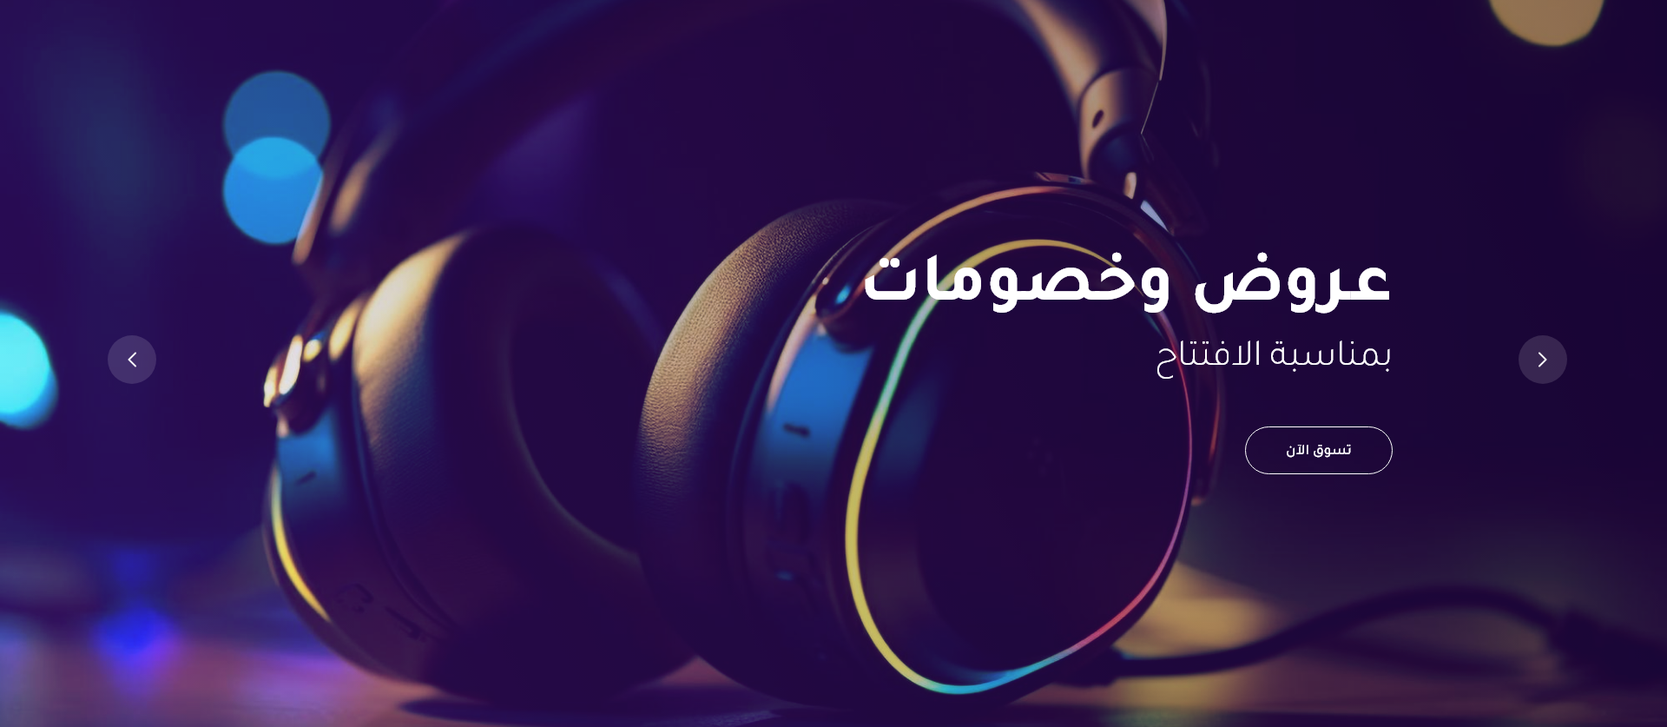
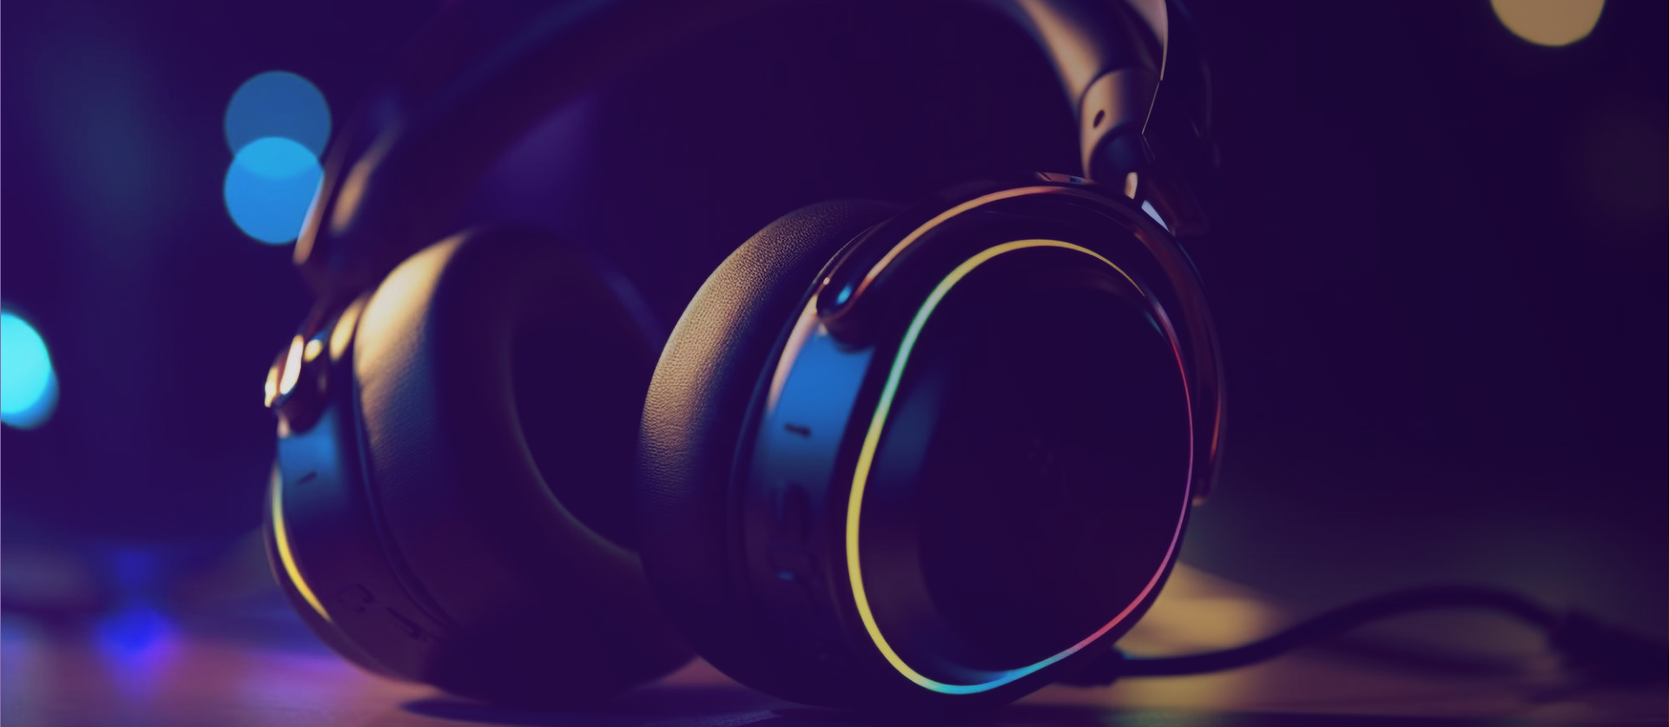
first commit

diff --git a/app/css/main.css b/app/css/main.css
@@ -1,1 +1,1 @@
-@import"https://fonts.googleapis.com/css2?family=Tajawal:wght@400;500;700&display=swap";.landing-swiper{width:100%;height:100%}.landing-swiper .swiper-slide img{width:100%;height:92%;object-fit:cover}.landing-swiper .swiper-pagination{bottom:4%}.landing-swiper .swiper-pagination .swiper-pagination-bullet{width:12px;height:12px;background-color:#44117c;opacity:.5}.landing-swiper .swiper-pagination-bullet-active{opacity:1 !important;background-color:#44117c}.fs-10px{font-size:10px}.fs-11px{font-size:11px}.fs-12{font-size:12px}.fs-13px{font-size:13px}.fs-14px{font-size:14px}.fs-15px{font-size:15px}.fs-16px{font-size:16px}.fs-26px{font-size:26px}.fw-600{font-weight:600 !important}.h-fit{height:fit-content}.w-fit{width:fit-content}.w-150px{width:150px}.main-color{color:#44117c}.gap-1px{gap:1px}.main-section{padding:35px 0}.main-btn{border-radius:50px;background:#44117c;display:flex;align-items:center;justify-content:center;gap:11px;padding:7px 33px;width:fit-content;cursor:pointer;color:#fff !important;font-size:18px;font-weight:600;outline:0;line-height:normal}.main-btn.xl{padding-left:93px;padding-right:93px}.main-title{font-size:35px;font-weight:700;line-height:42px;color:#44117c;margin-bottom:16px;text-align:center}.main-desc{font-size:17px;font-weight:400;line-height:20.4px;color:#929292;text-align:center;margin-bottom:30px}.box-product{border-radius:16px;background-color:#fff;box-shadow:0 0 10px rgba(0,0,0,.1);position:relative;padding:20px}.box-product .love-product{position:absolute;top:16px;inset-inline-end:16px;font-size:24px;background-color:#fff}.box-product .img-product{width:100%;height:150px;object-fit:contain;padding:10px}.box-product .text{text-align:center}.box-product .text .title{font-size:12px;font-weight:500;line-height:18.4px;color:#363636;padding:3px}.box-product .text .price{color:#363636;display:flex;gap:14px;justify-content:center;font-size:18px;font-weight:400;line-height:24px}.box-product .text .price .num{color:#44117c;font-size:20px;font-weight:500;line-height:30px}.service-section{background:url("/serv-land.svg");background-size:cover;padding:100px 0;margin:50px 0}.box-service{border:1px solid #ddd;display:flex;flex-direction:column;gap:20px;align-items:center;justify-content:center;padding:50px;border-radius:16px;text-align:center;min-height:323px}.box-service img{width:80px;height:auto}.box-service .title{font-size:22px;font-weight:700;line-height:26.4px;color:#fff}.box-service .desc{font-size:17px;font-weight:400;color:#fff;line-height:26.4px}.inp{border:1.2px solid #b4bec8;border-radius:4px;padding:12px;width:100%;font-size:14px;font-weight:400;direction:rtl;display:block}.inp::placeholder{font-size:14px;font-weight:400;color:rgba(135,135,135,.5)}textarea{height:135px}@tailwind base;@tailwind components;@tailwind utilities;body{font-family:Arial,Helvetica,sans-serif}@layer base{:root{--background: 0 0% 100%;--foreground: 0 0% 3.9%;--card: 0 0% 100%;--card-foreground: 0 0% 3.9%;--popover: 0 0% 100%;--popover-foreground: 0 0% 3.9%;--primary: 0 0% 9%;--primary-foreground: 0 0% 98%;--secondary: 0 0% 96.1%;--secondary-foreground: 0 0% 9%;--muted: 0 0% 96.1%;--muted-foreground: 0 0% 45.1%;--accent: 0 0% 96.1%;--accent-foreground: 0 0% 9%;--destructive: 0 84.2% 60.2%;--destructive-foreground: 0 0% 98%;--border: 0 0% 89.8%;--input: 0 0% 89.8%;--ring: 0 0% 3.9%;--chart-1: 12 76% 61%;--chart-2: 173 58% 39%;--chart-3: 197 37% 24%;--chart-4: 43 74% 66%;--chart-5: 27 87% 67%;--radius: 0.5rem}.dark{--background: 0 0% 3.9%;--foreground: 0 0% 98%;--card: 0 0% 3.9%;--card-foreground: 0 0% 98%;--popover: 0 0% 3.9%;--popover-foreground: 0 0% 98%;--primary: 0 0% 98%;--primary-foreground: 0 0% 9%;--secondary: 0 0% 14.9%;--secondary-foreground: 0 0% 98%;--muted: 0 0% 14.9%;--muted-foreground: 0 0% 63.9%;--accent: 0 0% 14.9%;--accent-foreground: 0 0% 98%;--destructive: 0 62.8% 30.6%;--destructive-foreground: 0 0% 98%;--border: 0 0% 14.9%;--input: 0 0% 14.9%;--ring: 0 0% 83.1%;--chart-1: 220 70% 50%;--chart-2: 160 60% 45%;--chart-3: 30 80% 55%;--chart-4: 280 65% 60%;--chart-5: 340 75% 55%}}@layer base{*{@apply border-border}body{@apply bg-background text-foreground;font-family:var(--main-font) !important}}body{background-color:#f0f2f5;overflow-x:hidden}.login-container{min-height:100vh;display:flex;justify-content:center;align-items:center}.login-box{background-color:rgba(255,255,255,.9);border-radius:20px;box-shadow:0 10px 30px rgba(0,0,0,.1);overflow:hidden;width:100%;max-width:1200px}.login-bg{color:#fff;min-height:600px;position:relative;display:flex;flex-direction:column;justify-content:space-between;padding:3rem}.login-bg::before{content:"";position:absolute;left:0;top:0;width:100%;height:100%;background:url("/food.jpg");background-size:cover;background-position:center;background-repeat:no-repeat;opacity:.9;z-index:1}.login-bg::after{content:"";position:absolute;left:0;top:0;width:100%;height:100%;background:linear-gradient(135deg, rgba(253, 141, 13, 0.3), rgba(215, 215, 11, 0.3));z-index:2}.login-bg>*{position:relative;z-index:3}.form-control:focus{box-shadow:0 0 0 .25rem rgba(13,110,253,.25);border-color:#86b7fe}.btn-primary{background-color:#0d6efd;border-color:#0d6efd;transition:all .3s ease}.btn-primary:hover{background-color:#0b5ed7;border-color:#0a58ca;transform:translateY(-2px);box-shadow:0 4px 10px rgba(13,110,253,.3)}.input-group-text{background-color:rgba(0,0,0,0);border-right:none}.form-control{border-left:none;transition:all .3s ease}.form-control:focus{transform:translateY(-2px)}.floating-shapes div{position:absolute;width:60px;height:60px;border-radius:50%;background-color:rgba(255,255,255,.1);animation:float 15s infinite;z-index:1}.floating-shapes div:nth-child(1){top:10%;left:10%;animation-delay:0s}.floating-shapes div:nth-child(2){top:20%;right:20%;animation-delay:2s}.floating-shapes div:nth-child(3){bottom:30%;left:30%;animation-delay:4s}.floating-shapes div:nth-child(4){bottom:10%;right:10%;animation-delay:6s}@keyframes float{0%,100%{transform:translateY(0) rotate(0deg)}50%{transform:translateY(-20px) rotate(180deg)}}*{box-sizing:border-box;padding:0%;margin:0%}html{scroll-behavior:smooth}body{min-height:100vh;font-family:"Cairo",sans-serif;font-size:16px;background-color:#fff;color:rgba(0,0,0,.6)}ul{list-style:none;padding:0%;margin:0%}a{text-decoration:none;color:rgba(0,0,0,.6)}a:hover{color:rgba(0,0,0,.6)}button{border:none;outline:none}input:focus,select:focus{outline:none}.top-nav{background-color:#fff;color:#fff;font-size:14px;padding:12px 0;border:1px solid #f3f3f3}.top-nav .items{display:flex;align-items:center;gap:59px;flex-wrap:wrap}@media(max-width: 767.98px){.top-nav .items{gap:2rem}}.top-nav .items .item{display:flex;align-items:center;gap:8px;color:#363636}.top-nav .items .item .icon{height:auto;color:#44117c;width:14px}.top-nav .social{display:flex;align-items:center;gap:20px}.top-nav .btn-trans{border:2px solid #44117c;padding:6px 14px;border-radius:20px;color:#44117c;font-size:14px;display:flex;font-weight:500;align-items:center;gap:8px;transition:500ms}.top-nav .btn-trans:hover{background-color:#44117c;color:#fff}.bottom-nav{background-color:#fff !important;color:#44117c;padding:22px 0;gap:20px}.bottom-nav .logo img{width:100%;height:auto}@media(max-width: 767.98px){.bottom-nav .logo img{width:100px}}.bottom-nav .btn-nav{border-radius:4px;border:1px solid #44117c;color:#44117c;font-size:16px;font-weight:500;line-height:normal;padding:4px 11px}.bottom-nav .inp-search{flex:1;position:relative}.bottom-nav .inp-search input{border-radius:20px;padding:14px;box-shadow:0 0 10px rgba(0,0,0,.1);border:0}.bottom-nav .inp-search .search{position:absolute;inset-inline-end:20px;top:50%;transform:translateY(-50%)}.bottom-nav .btn-nav-holder{display:flex;gap:50px;align-items:center}.bottom-nav .btn-nav-holder .btn-toggle{color:#44117c;font-size:17px;font-weight:500;line-height:20.4px}.bottom-nav .btn-nav-holder .btn-cart{display:flex;gap:10px;color:#3f3e41;font-size:17px;font-weight:500;line-height:20.4px}.bottom-nav .btn-nav-holder .btn-cart .icon-holder{position:relative}.bottom-nav .btn-nav-holder .btn-cart .icon-holder svg,.bottom-nav .btn-nav-holder .btn-cart .icon-holder i{font-size:24px;color:#44117c}.bottom-nav .btn-nav-holder .btn-cart .icon-holder .count{position:absolute;top:-10px;inset-inline-start:-8px;width:16px;height:16px;background-color:#ea2050;color:#fff;font-size:10px;font-weight:700;border-radius:50%;display:flex;align-items:center;justify-content:center}.menu-nav{background-color:#44117c;padding:14px}.menu-nav .navbar-nav{display:flex;justify-content:start;align-items:center;flex-direction:row;gap:48px}@media(max-width: 991.98px){.menu-nav .navbar-nav{gap:.5rem}}.menu-nav .navbar-nav .nav-link{color:#fff !important;font-weight:500 !important;font-size:17px !important;padding:5px 0 !important;line-height:20.4px}.phone-header{inset-inline-start:0;top:-100%;z-index:100;width:100%}.phone-header.scroll{position:sticky;top:0;transition:300ms}.phone-header .phone-nav{background-color:#fff;box-shadow:0 0 9px 0 rgba(0,0,0,.1215686275)}.phone-header .phone-nav .nav-content{display:flex;align-items:center;justify-content:center;justify-content:space-between}.phone-header .phone-nav .nav-content .navbar-toggler{border:none;padding:0;width:40px;font-size:25px;height:40px;display:flex;align-items:center;justify-content:center;border:1px solid #888;color:#888;border-radius:4px}.phone-header .phone-nav .nav-content .navbar-toggler:focus{box-shadow:none !important}.phone-header .phone-nav .nav-content .offcanvas{width:290px}.phone-header .phone-nav .nav-content .offcanvas .offcanvas-body .navbar-nav{margin-bottom:3rem;gap:5px;position:relative}.phone-header .phone-nav .nav-content .offcanvas .offcanvas-body .navbar-nav:not(:last-child)::before{content:"";position:absolute;bottom:-21px;left:0;width:100%;height:1px;background-color:#d5d5d5}.phone-header .phone-nav .nav-content .offcanvas .offcanvas-body .navbar-nav .main-btn{width:100%;justify-content:center;gap:1rem;font-size:17px;font-weight:normal}.phone-header .phone-nav .nav-content .offcanvas .offcanvas-body .navbar-nav .nav-item.nav-img{margin-bottom:15px}.phone-header .phone-nav .nav-content .offcanvas .offcanvas-body .navbar-nav .nav-item.nav-img img{margin-bottom:10px;width:75px;height:75px;border-radius:50%;object-fit:cover}.phone-header .phone-nav .nav-content .offcanvas .offcanvas-body .navbar-nav .nav-item.nav-img h5,.phone-header .phone-nav .nav-content .offcanvas .offcanvas-body .navbar-nav .nav-item.nav-img h6{font-weight:700}.phone-header .phone-nav .nav-content .offcanvas .offcanvas-body .navbar-nav .nav-item.nav-img h6{color:#44117c}.phone-header .phone-nav .nav-content .offcanvas .offcanvas-body .navbar-nav .nav-item .nav-link{padding:10px 20px;border-radius:10px;font-size:17px;color:#000;display:flex;align-items:center;justify-content:center;justify-content:flex-start;gap:7px}.phone-header .phone-nav .nav-content .offcanvas .offcanvas-body .navbar-nav .nav-item .nav-link.red{color:#e60815}.phone-header .phone-nav .nav-content .offcanvas .offcanvas-body .navbar-nav .nav-item .nav-link.active{background-color:#44117c;color:#fff}.phone-header .phone-nav .nav-content .offcanvas .offcanvas-body .navbar-nav .nav-item .nav-link:hover:not(.active){background-color:rgba(68,17,124,.2);color:#fff}.phone-header .phone-nav .nav-content .offcanvas .offcanvas-body .navbar-nav .nav-item .nav-link i,.phone-header .phone-nav .nav-content .offcanvas .offcanvas-body .navbar-nav .nav-item .nav-link svg{font-size:20px}.phone-header .phone-nav .nav-content .offcanvas .offcanvas-body .navbar-nav .nav-item .info{display:flex;flex-direction:column;gap:.5rem}.phone-header .phone-nav .nav-content .offcanvas .offcanvas-body .navbar-nav .nav-item .info .contact{gap:1rem;display:flex;align-items:center}.phone-header .phone-nav .nav-content .offcanvas .offcanvas-body .navbar-nav .nav-item .info .contact .icon{color:#b8b8b8;font-size:18px}.phone-header .phone-nav .nav-content .offcanvas .offcanvas-body .navbar-nav .nav-item .info .contact .text{color:#44117c;text-align:start;font-size:13px;font-weight:700;line-height:17.36px}.phone-header .phone-nav .nav-content .btn-nav{border-radius:50%;font-size:26px;transition:.3s all ease-in-out;background-color:rgba(0,0,0,0);color:#b8b8b8}.phone-header .phone-nav .nav-content .btn-nav:hover{color:#f3f3f3}.phone-header .phone-nav .nav-content .btn-nav .badge{inset-block-start:11px !important}.phone-header .phone-nav .nav-content .logo img{width:auto;height:40px}.social-list{display:flex;align-items:center;gap:10px;list-style:none;padding:0}.social-list li .btn-link-social{display:flex;align-items:center;justify-content:center;width:40px;height:40px;border-radius:50%;background-color:#b8b8b8}.social-list li .btn-link-social i,.social-list li .btn-link-social svg{color:#fff;fill:#fff;width:20px}.notice-menu{width:275px !important;max-height:240px !important;top:55px;right:-270px !important;overflow-y:scroll;box-shadow:0 0 10px rgba(0,0,0,.2)}@media(max-width: 767.98px){.notice-menu{right:0 !important;width:300px !important}}.notice-menu .dropdown-item{white-space:normal;font-size:12px !important;color:#666 !important;display:flex;gap:20px !important;border-bottom:1px solid #ddd;padding:5px}.notice-menu .dropdown-item .avatar img{width:40px;height:40px;padding:3px;border:1px solid #ddd;border-radius:4px}.notice-menu .dropdown-item .text{display:flex;flex-direction:column;gap:5px}.notice-menu .dropdown-item:active{background-color:#44117c !important;color:#fff !important}.notice-menu .footer-menu{position:absolute;width:100%;height:30px}.swiper-landing{height:80vh;position:relative}.swiper-landing .swiper-wrapper{position:relative}.swiper-landing .swiper-wrapper .swiper-slide{position:relative}.swiper-landing .swiper-wrapper .swiper-slide .img-slider{width:100%;height:100%;object-fit:cover}.swiper-landing .swiper-wrapper .swiper-slide .container{position:absolute;left:0;top:0;z-index:99;height:100%;display:flex;align-items:center}@media(max-width: 767.98px){.swiper-landing .swiper-wrapper .swiper-slide .container{justify-content:center}}.swiper-landing .swiper-wrapper .swiper-slide .container .box-intro{padding-inline:16px;text-align:center;margin:0 10%}.swiper-landing .swiper-wrapper .swiper-slide .container .box-intro .title{font-size:64px;font-weight:700;line-height:119.94px;color:#fff;margin-bottom:1rem}.swiper-landing .swiper-wrapper .swiper-slide .container .box-intro .des{font-family:Cairo;font-size:26px;font-weight:500;line-height:37.48px;text-align:start;color:#fff}.swiper-landing .swiper-wrapper .swiper-slide .container .box-intro .btn-shop{font-weight:700;color:#fff;background-color:rgba(0,0,0,0);font-size:14px;padding:1rem;transition:300ms;border-radius:30px;border:1px solid #fff}.swiper-landing .swiper-wrapper .swiper-slide .container .box-intro .btn-shop:hover{background-color:#fff;color:#44117c}@media(max-width: 767.98px){.swiper-landing .swiper-wrapper .swiper-slide .container .box-intro{text-align:center;padding:0}.swiper-landing .swiper-wrapper .swiper-slide .container .box-intro .title{font-size:27px;margin-bottom:0rem;line-height:38.94px}.swiper-landing .swiper-wrapper .swiper-slide .container .box-intro .des{font-size:12px;line-height:30px;text-align:center}.swiper-landing .swiper-wrapper .swiper-slide .container .box-intro .btns{justify-content:center;margin-top:35px}}.swiper-landing .swiper-wrapper .swiper-slide img{position:absolute;top:0;left:0;width:100%;height:100%}@media(max-width: 767.98px){.swiper-landing .swiper-wrapper .swiper-slide img{object-fit:cover}}.swiper-landing .pagination{z-index:1;position:absolute;gap:5px;bottom:0;left:50%;transform:translateX(-50%);display:flex;align-items:center;justify-content:center;margin-bottom:1rem}.swiper-landing .pagination .swiper-pagination-bullet{border-radius:2px;opacity:1 !important;background-color:#fff !important;height:5px;width:30px}.swiper-landing .pagination .swiper-pagination-bullet.swiper-pagination-bullet-active{background-color:rgba(223,43,50,.74) !important}.swiper-landing .swiper-button-prev,.swiper-landing .swiper-button-next{display:flex;align-items:center;justify-content:center;background-color:#382551;border-radius:50%;width:63px;height:63px;color:#fff}.swiper-landing .swiper-button-prev::after,.swiper-landing .swiper-button-next::after{font-size:18px !important;font-weight:bold}@media(max-width: 767.98px){.swiper-landing .swiper-button-prev,.swiper-landing .swiper-button-next{display:none}}.swiper-landing .swiper-button-prev{inset-inline-start:1rem !important}.swiper-landing .swiper-button-next{inset-inline-end:1rem !important}.product-slider{height:fit-content;padding:10px 50px}.product-slider .swiper-button-prev,.product-slider .swiper-button-next{display:flex;align-items:center;justify-content:center;background-color:#fff;border-radius:50%;width:63px;height:63px;color:#44117c;box-shadow:0 0 10px rgba(0,0,0,.2)}.product-slider .swiper-button-prev::after,.product-slider .swiper-button-next::after{font-size:18px !important;font-weight:bold}@media(max-width: 767.98px){.product-slider .swiper-button-prev,.product-slider .swiper-button-next{display:none}}.product-slider .swiper-button-prev{inset-inline-start:1rem !important}.product-slider .swiper-button-next{inset-inline-end:1rem !important}.main-ad{margin:50px 0}.main-ad img{width:100%;height:auto}.footer{background-color:#44117c;color:#fff;font-size:16px;font-weight:400}.footer .footer-top{padding:40px 0 20px;background:url("/bg-footer.svg")}.footer .footer-top .info .logo{margin-bottom:26px;width:187px;height:auto}@media(max-width: 767.98px){.footer .footer-top .info .logo{width:100px}}.footer .footer-top .info .text{font-size:12px;font-weight:500;max-width:356px;line-height:26px}.footer .footer-top .items{display:flex;flex-direction:column;gap:7px}.footer .footer-top .items .title{margin-bottom:20px;font-size:22px;line-height:normal;font-weight:600}.footer .footer-top .items .item{white-space:nowrap;color:#fff;line-height:normal;font-size:14px;font-weight:400;margin-bottom:10px}.footer .footer-top .box-email .text{max-width:306px;margin-bottom:21px;font-size:13px;font-weight:400;line-height:24px}.footer .footer-top .box-email .parent-inp{width:306px;margin-bottom:35px;max-width:100%;display:flex;align-items:stretch}.footer .footer-top .box-email .parent-inp .inp{border:0;padding:9px 20px;border-radius:0 20px 20px 0;flex:1;font-weight:400;font-size:16px;color:#b8b8b8}.footer .footer-top .box-email .parent-inp .inp::placeholder{font-weight:400;font-size:16px;color:#b8b8b8}.footer .footer-top .box-email .parent-inp .btn-sub{font-weight:400;font-size:16px;padding:10px 17px;background:#fff;border-radius:20px 0px 0px 20px;color:#fff}.footer .bar{height:.5px;width:100%;background-color:#fff}.footer .footer-bottom{color:#fff;font-size:14px;font-weight:400;line-height:normal;padding:50px 11px;background-color:#3d0e71}.footer .footer-bottom .social{display:flex;align-items:center;gap:30px}.footer .footer-bottom .social i,.footer .footer-bottom .social svg{font-size:18px;color:#fff}
+@import"https://fonts.googleapis.com/css2?family=Tajawal:wght@400;500;700&display=swap";.landing-swiper{width:100%;height:100%}.landing-swiper .swiper-slide img{width:100%;height:92%;object-fit:cover}.landing-swiper .swiper-pagination{bottom:4%}.landing-swiper .swiper-pagination .swiper-pagination-bullet{width:12px;height:12px;background-color:#44117c;opacity:.5}.landing-swiper .swiper-pagination-bullet-active{opacity:1 !important;background-color:#44117c}.fs-10px{font-size:10px}.fs-11px{font-size:11px}.fs-12{font-size:12px}.fs-13px{font-size:13px}.fs-14px{font-size:14px}.fs-15px{font-size:15px}.fs-16px{font-size:16px}.fs-26px{font-size:26px}.fw-600{font-weight:600 !important}.h-fit{height:fit-content}.w-fit{width:fit-content}.w-150px{width:150px}.main-color{color:#44117c}.gap-1px{gap:1px}.main-section{padding:35px 0}.main-btn{border-radius:50px;background:#44117c;display:flex;align-items:center;justify-content:center;gap:11px;padding:7px 33px;width:fit-content;cursor:pointer;color:#fff !important;font-size:18px;font-weight:600;outline:0;line-height:normal}.main-btn.xl{padding-left:93px;padding-right:93px}.main-title{font-size:35px;font-weight:700;line-height:42px;color:#44117c;margin-bottom:16px;text-align:center}.main-desc{font-size:17px;font-weight:400;line-height:20.4px;color:#929292;text-align:center;margin-bottom:30px}.box-product{border-radius:16px;background-color:#fff;box-shadow:0 0 10px rgba(0,0,0,.1);position:relative;padding:20px}.box-product .love-product{position:absolute;top:16px;inset-inline-end:16px;font-size:24px;background-color:#fff}.box-product .img-product{width:100%;height:150px;object-fit:contain;padding:10px}.box-product .text{text-align:center}.box-product .text .title{font-size:12px;font-weight:500;line-height:18.4px;color:#363636;padding:3px}.box-product .text .price{color:#363636;display:flex;gap:14px;justify-content:center;font-size:18px;font-weight:400;line-height:24px}.box-product .text .price .num{color:#44117c;font-size:20px;font-weight:500;line-height:30px}.service-section{background:url("/serv-land.svg");background-size:cover;padding:100px 0;margin:50px 0}.box-service{border:1px solid #ddd;display:flex;flex-direction:column;gap:20px;align-items:center;justify-content:center;padding:50px;border-radius:16px;text-align:center;min-height:323px}.box-service img{width:80px;height:auto}.box-service .title{font-size:22px;font-weight:700;line-height:26.4px;color:#fff}.box-service .desc{font-size:17px;font-weight:400;color:#fff;line-height:26.4px}.inp{border:1.2px solid #b4bec8;border-radius:4px;padding:12px;width:100%;font-size:14px;font-weight:400;direction:rtl;display:block}.inp::placeholder{font-size:14px;font-weight:400;color:rgba(135,135,135,.5)}textarea{height:135px}@tailwind base;@tailwind components;@tailwind utilities;body{font-family:Arial,Helvetica,sans-serif}@layer base{:root{--background: 0 0% 100%;--foreground: 0 0% 3.9%;--card: 0 0% 100%;--card-foreground: 0 0% 3.9%;--popover: 0 0% 100%;--popover-foreground: 0 0% 3.9%;--primary: 0 0% 9%;--primary-foreground: 0 0% 98%;--secondary: 0 0% 96.1%;--secondary-foreground: 0 0% 9%;--muted: 0 0% 96.1%;--muted-foreground: 0 0% 45.1%;--accent: 0 0% 96.1%;--accent-foreground: 0 0% 9%;--destructive: 0 84.2% 60.2%;--destructive-foreground: 0 0% 98%;--border: 0 0% 89.8%;--input: 0 0% 89.8%;--ring: 0 0% 3.9%;--chart-1: 12 76% 61%;--chart-2: 173 58% 39%;--chart-3: 197 37% 24%;--chart-4: 43 74% 66%;--chart-5: 27 87% 67%;--radius: 0.5rem}.dark{--background: 0 0% 3.9%;--foreground: 0 0% 98%;--card: 0 0% 3.9%;--card-foreground: 0 0% 98%;--popover: 0 0% 3.9%;--popover-foreground: 0 0% 98%;--primary: 0 0% 98%;--primary-foreground: 0 0% 9%;--secondary: 0 0% 14.9%;--secondary-foreground: 0 0% 98%;--muted: 0 0% 14.9%;--muted-foreground: 0 0% 63.9%;--accent: 0 0% 14.9%;--accent-foreground: 0 0% 98%;--destructive: 0 62.8% 30.6%;--destructive-foreground: 0 0% 98%;--border: 0 0% 14.9%;--input: 0 0% 14.9%;--ring: 0 0% 83.1%;--chart-1: 220 70% 50%;--chart-2: 160 60% 45%;--chart-3: 30 80% 55%;--chart-4: 280 65% 60%;--chart-5: 340 75% 55%}}@layer base{*{@apply border-border}body{@apply bg-background text-foreground;font-family:var(--main-font) !important}}body{background-color:#f0f2f5;overflow-x:hidden}.login-container{min-height:100vh;display:flex;justify-content:center;align-items:center}.login-box{background-color:rgba(255,255,255,.9);border-radius:20px;box-shadow:0 10px 30px rgba(0,0,0,.1);overflow:hidden;width:100%;max-width:1200px}.login-bg{color:#fff;min-height:600px;position:relative;display:flex;flex-direction:column;justify-content:space-between;padding:30px !important}.login-bg::before{content:"";position:absolute;left:0;top:0;width:100%;height:100%;background:url("/slider.png");background-size:cover;background-position:center;background-repeat:no-repeat;opacity:.9;z-index:1}.login-bg::after{content:"";position:absolute;left:0;top:0;width:100%;height:100%;background:linear-gradient(135deg, rgba(253, 13, 249, 0.071), rgba(55, 11, 215, 0.032));z-index:2}.login-bg>*{position:relative;z-index:3}.form-control:focus{box-shadow:0 0 0 .25rem rgba(13,110,253,.25);border-color:#86b7fe}.btn-primary{background-color:#0d6efd;border-color:#0d6efd;transition:all .3s ease}.btn-primary:hover{background-color:#0b5ed7;border-color:#0a58ca;transform:translateY(-2px);box-shadow:0 4px 10px rgba(13,110,253,.3)}.input-group-text{background-color:rgba(0,0,0,0);border-right:none}.form-control{border-left:none;transition:all .3s ease}.form-control:focus{transform:translateY(-2px)}.floating-shapes div{position:absolute;width:60px;height:60px;border-radius:50%;background-color:rgba(255,255,255,.1);animation:float 15s infinite;z-index:1}.floating-shapes div:nth-child(1){top:10%;left:10%;animation-delay:0s}.floating-shapes div:nth-child(2){top:20%;right:20%;animation-delay:2s}.floating-shapes div:nth-child(3){bottom:30%;left:30%;animation-delay:4s}.floating-shapes div:nth-child(4){bottom:10%;right:10%;animation-delay:6s}@keyframes float{0%,100%{transform:translateY(0) rotate(0deg)}50%{transform:translateY(-20px) rotate(180deg)}}*{box-sizing:border-box;padding:0%;margin:0%}html{scroll-behavior:smooth}body{min-height:100vh;font-family:"Cairo",sans-serif;font-size:16px;background-color:#fff;color:rgba(0,0,0,.6)}ul{list-style:none;padding:0%;margin:0%}a{text-decoration:none;color:rgba(0,0,0,.6)}a:hover{color:rgba(0,0,0,.6)}button{border:none;outline:none}input:focus,select:focus{outline:none}.top-nav{background-color:#fff;color:#fff;font-size:14px;padding:12px 0;border:1px solid #f3f3f3}.top-nav .items{display:flex;align-items:center;gap:59px;flex-wrap:wrap}@media(max-width: 767.98px){.top-nav .items{gap:2rem}}.top-nav .items .item{display:flex;align-items:center;gap:8px;color:#363636}.top-nav .items .item .icon{height:auto;color:#44117c;width:14px}.top-nav .social{display:flex;align-items:center;gap:20px}.top-nav .btn-trans{border:2px solid #44117c;padding:6px 14px;border-radius:20px;color:#44117c;font-size:14px;display:flex;font-weight:500;align-items:center;gap:8px;transition:500ms}.top-nav .btn-trans:hover{background-color:#44117c;color:#fff}.bottom-nav{background-color:#fff !important;color:#44117c;padding:22px 0;gap:20px}.bottom-nav .logo img{width:100%;height:auto}@media(max-width: 767.98px){.bottom-nav .logo img{width:100px}}.bottom-nav .btn-nav{border-radius:4px;border:1px solid #44117c;color:#44117c;font-size:16px;font-weight:500;line-height:normal;padding:4px 11px}.bottom-nav .inp-search{flex:1;position:relative}.bottom-nav .inp-search input{border-radius:20px;padding:14px;box-shadow:0 0 10px rgba(0,0,0,.1);border:0}.bottom-nav .inp-search .search{position:absolute;inset-inline-end:20px;top:50%;transform:translateY(-50%)}.bottom-nav .btn-nav-holder{display:flex;gap:50px;align-items:center}.bottom-nav .btn-nav-holder .btn-toggle{color:#44117c;font-size:17px;font-weight:500;line-height:20.4px}.bottom-nav .btn-nav-holder .btn-cart{display:flex;gap:10px;color:#3f3e41;font-size:17px;font-weight:500;line-height:20.4px}.bottom-nav .btn-nav-holder .btn-cart .icon-holder{position:relative}.bottom-nav .btn-nav-holder .btn-cart .icon-holder svg,.bottom-nav .btn-nav-holder .btn-cart .icon-holder i{font-size:24px;color:#44117c}.bottom-nav .btn-nav-holder .btn-cart .icon-holder .count{position:absolute;top:-10px;inset-inline-start:-8px;width:16px;height:16px;background-color:#ea2050;color:#fff;font-size:10px;font-weight:700;border-radius:50%;display:flex;align-items:center;justify-content:center}.menu-nav{background-color:#44117c;padding:14px}.menu-nav .navbar-nav{display:flex;justify-content:start;align-items:center;flex-direction:row;gap:48px}@media(max-width: 991.98px){.menu-nav .navbar-nav{gap:.5rem}}.menu-nav .navbar-nav .nav-link{color:#fff !important;font-weight:500 !important;font-size:17px !important;padding:5px 0 !important;line-height:20.4px}.phone-header{inset-inline-start:0;top:-100%;z-index:100;width:100%}.phone-header.scroll{position:sticky;top:0;transition:300ms}.phone-header .phone-nav{background-color:#fff;box-shadow:0 0 9px 0 rgba(0,0,0,.1215686275)}.phone-header .phone-nav .nav-content{display:flex;align-items:center;justify-content:center;justify-content:space-between}.phone-header .phone-nav .nav-content .navbar-toggler{border:none;padding:0;width:40px;font-size:25px;height:40px;display:flex;align-items:center;justify-content:center;border:1px solid #888;color:#888;border-radius:4px}.phone-header .phone-nav .nav-content .navbar-toggler:focus{box-shadow:none !important}.phone-header .phone-nav .nav-content .offcanvas{width:290px}.phone-header .phone-nav .nav-content .offcanvas .offcanvas-body .navbar-nav{margin-bottom:3rem;gap:5px;position:relative}.phone-header .phone-nav .nav-content .offcanvas .offcanvas-body .navbar-nav:not(:last-child)::before{content:"";position:absolute;bottom:-21px;left:0;width:100%;height:1px;background-color:#d5d5d5}.phone-header .phone-nav .nav-content .offcanvas .offcanvas-body .navbar-nav .main-btn{width:100%;justify-content:center;gap:1rem;font-size:17px;font-weight:normal}.phone-header .phone-nav .nav-content .offcanvas .offcanvas-body .navbar-nav .nav-item.nav-img{margin-bottom:15px}.phone-header .phone-nav .nav-content .offcanvas .offcanvas-body .navbar-nav .nav-item.nav-img img{margin-bottom:10px;width:75px;height:75px;border-radius:50%;object-fit:cover}.phone-header .phone-nav .nav-content .offcanvas .offcanvas-body .navbar-nav .nav-item.nav-img h5,.phone-header .phone-nav .nav-content .offcanvas .offcanvas-body .navbar-nav .nav-item.nav-img h6{font-weight:700}.phone-header .phone-nav .nav-content .offcanvas .offcanvas-body .navbar-nav .nav-item.nav-img h6{color:#44117c}.phone-header .phone-nav .nav-content .offcanvas .offcanvas-body .navbar-nav .nav-item .nav-link{padding:10px 20px;border-radius:10px;font-size:17px;color:#000;display:flex;align-items:center;justify-content:center;justify-content:flex-start;gap:7px}.phone-header .phone-nav .nav-content .offcanvas .offcanvas-body .navbar-nav .nav-item .nav-link.red{color:#e60815}.phone-header .phone-nav .nav-content .offcanvas .offcanvas-body .navbar-nav .nav-item .nav-link.active{background-color:#44117c;color:#fff}.phone-header .phone-nav .nav-content .offcanvas .offcanvas-body .navbar-nav .nav-item .nav-link:hover:not(.active){background-color:rgba(68,17,124,.2);color:#fff}.phone-header .phone-nav .nav-content .offcanvas .offcanvas-body .navbar-nav .nav-item .nav-link i,.phone-header .phone-nav .nav-content .offcanvas .offcanvas-body .navbar-nav .nav-item .nav-link svg{font-size:20px}.phone-header .phone-nav .nav-content .offcanvas .offcanvas-body .navbar-nav .nav-item .info{display:flex;flex-direction:column;gap:.5rem}.phone-header .phone-nav .nav-content .offcanvas .offcanvas-body .navbar-nav .nav-item .info .contact{gap:1rem;display:flex;align-items:center}.phone-header .phone-nav .nav-content .offcanvas .offcanvas-body .navbar-nav .nav-item .info .contact .icon{color:#b8b8b8;font-size:18px}.phone-header .phone-nav .nav-content .offcanvas .offcanvas-body .navbar-nav .nav-item .info .contact .text{color:#44117c;text-align:start;font-size:13px;font-weight:700;line-height:17.36px}.phone-header .phone-nav .nav-content .btn-nav{border-radius:50%;font-size:26px;transition:.3s all ease-in-out;background-color:rgba(0,0,0,0);color:#b8b8b8}.phone-header .phone-nav .nav-content .btn-nav:hover{color:#f3f3f3}.phone-header .phone-nav .nav-content .btn-nav .badge{inset-block-start:11px !important}.phone-header .phone-nav .nav-content .logo img{width:auto;height:40px}.social-list{display:flex;align-items:center;gap:10px;list-style:none;padding:0}.social-list li .btn-link-social{display:flex;align-items:center;justify-content:center;width:40px;height:40px;border-radius:50%;background-color:#b8b8b8}.social-list li .btn-link-social i,.social-list li .btn-link-social svg{color:#fff;fill:#fff;width:20px}.notice-menu{width:275px !important;max-height:240px !important;top:55px;right:-270px !important;overflow-y:scroll;box-shadow:0 0 10px rgba(0,0,0,.2)}@media(max-width: 767.98px){.notice-menu{right:0 !important;width:300px !important}}.notice-menu .dropdown-item{white-space:normal;font-size:12px !important;color:#666 !important;display:flex;gap:20px !important;border-bottom:1px solid #ddd;padding:5px}.notice-menu .dropdown-item .avatar img{width:40px;height:40px;padding:3px;border:1px solid #ddd;border-radius:4px}.notice-menu .dropdown-item .text{display:flex;flex-direction:column;gap:5px}.notice-menu .dropdown-item:active{background-color:#44117c !important;color:#fff !important}.notice-menu .footer-menu{position:absolute;width:100%;height:30px}.swiper-landing{height:80vh;position:relative}.swiper-landing .swiper-wrapper{position:relative}.swiper-landing .swiper-wrapper .swiper-slide{position:relative}.swiper-landing .swiper-wrapper .swiper-slide .img-slider{width:100%;height:100%;object-fit:cover}.swiper-landing .swiper-wrapper .swiper-slide .container{position:absolute;left:0;top:0;z-index:99;height:100%;display:flex;align-items:center}@media(max-width: 767.98px){.swiper-landing .swiper-wrapper .swiper-slide .container{justify-content:center}}.swiper-landing .swiper-wrapper .swiper-slide .container .box-intro{padding-inline:16px;text-align:center;margin:0 10%}.swiper-landing .swiper-wrapper .swiper-slide .container .box-intro .title{font-size:64px;font-weight:700;line-height:119.94px;color:#fff;margin-bottom:1rem}.swiper-landing .swiper-wrapper .swiper-slide .container .box-intro .des{font-family:Cairo;font-size:26px;font-weight:500;line-height:37.48px;text-align:start;color:#fff}.swiper-landing .swiper-wrapper .swiper-slide .container .box-intro .btn-shop{font-weight:700;color:#fff;background-color:rgba(0,0,0,0);font-size:14px;padding:1rem;transition:300ms;border-radius:30px;border:1px solid #fff}.swiper-landing .swiper-wrapper .swiper-slide .container .box-intro .btn-shop:hover{background-color:#fff;color:#44117c}@media(max-width: 767.98px){.swiper-landing .swiper-wrapper .swiper-slide .container .box-intro{text-align:center;padding:0}.swiper-landing .swiper-wrapper .swiper-slide .container .box-intro .title{font-size:27px;margin-bottom:0rem;line-height:38.94px}.swiper-landing .swiper-wrapper .swiper-slide .container .box-intro .des{font-size:12px;line-height:30px;text-align:center}.swiper-landing .swiper-wrapper .swiper-slide .container .box-intro .btns{justify-content:center;margin-top:35px}}.swiper-landing .swiper-wrapper .swiper-slide img{position:absolute;top:0;left:0;width:100%;height:100%}@media(max-width: 767.98px){.swiper-landing .swiper-wrapper .swiper-slide img{object-fit:cover}}.swiper-landing .pagination{z-index:1;position:absolute;gap:5px;bottom:0;left:50%;transform:translateX(-50%);display:flex;align-items:center;justify-content:center;margin-bottom:1rem}.swiper-landing .pagination .swiper-pagination-bullet{border-radius:2px;opacity:1 !important;background-color:#fff !important;height:5px;width:30px}.swiper-landing .pagination .swiper-pagination-bullet.swiper-pagination-bullet-active{background-color:rgba(223,43,50,.74) !important}.swiper-landing .swiper-button-prev,.swiper-landing .swiper-button-next{display:flex;align-items:center;justify-content:center;background-color:#382551;border-radius:50%;width:63px;height:63px;color:#fff}.swiper-landing .swiper-button-prev::after,.swiper-landing .swiper-button-next::after{font-size:18px !important;font-weight:bold}@media(max-width: 767.98px){.swiper-landing .swiper-button-prev,.swiper-landing .swiper-button-next{display:none}}.swiper-landing .swiper-button-prev{inset-inline-start:1rem !important}.swiper-landing .swiper-button-next{inset-inline-end:1rem !important}.product-slider{height:fit-content;padding:10px 50px}.product-slider .swiper-button-prev,.product-slider .swiper-button-next{display:flex;align-items:center;justify-content:center;background-color:#fff;border-radius:50%;width:63px;height:63px;color:#44117c;box-shadow:0 0 10px rgba(0,0,0,.2)}.product-slider .swiper-button-prev::after,.product-slider .swiper-button-next::after{font-size:18px !important;font-weight:bold}@media(max-width: 767.98px){.product-slider .swiper-button-prev,.product-slider .swiper-button-next{display:none}}.product-slider .swiper-button-prev{inset-inline-start:1rem !important}.product-slider .swiper-button-next{inset-inline-end:1rem !important}.main-ad{margin:50px 0}.main-ad img{width:100%;height:auto}.footer{background-color:#44117c;color:#fff;font-size:16px;font-weight:400}.footer .footer-top{padding:40px 0 20px;background:url("/bg-footer.svg")}.footer .footer-top .info .logo{margin-bottom:26px;width:187px;height:auto}@media(max-width: 767.98px){.footer .footer-top .info .logo{width:100px}}.footer .footer-top .info .text{font-size:12px;font-weight:500;max-width:356px;line-height:26px}.footer .footer-top .items{display:flex;flex-direction:column;gap:7px}.footer .footer-top .items .title{margin-bottom:20px;font-size:22px;line-height:normal;font-weight:600}.footer .footer-top .items .item{white-space:nowrap;color:#fff;line-height:normal;font-size:14px;font-weight:400;margin-bottom:10px}.footer .footer-top .box-email .text{max-width:306px;margin-bottom:21px;font-size:13px;font-weight:400;line-height:24px}.footer .footer-top .box-email .parent-inp{width:306px;margin-bottom:35px;max-width:100%;display:flex;align-items:stretch}.footer .footer-top .box-email .parent-inp .inp{border:0;padding:9px 20px;border-radius:0 20px 20px 0;flex:1;font-weight:400;font-size:16px;color:#b8b8b8}.footer .footer-top .box-email .parent-inp .inp::placeholder{font-weight:400;font-size:16px;color:#b8b8b8}.footer .footer-top .box-email .parent-inp .btn-sub{font-weight:400;font-size:16px;padding:10px 17px;background:#fff;border-radius:20px 0px 0px 20px;color:#fff}.footer .bar{height:.5px;width:100%;background-color:#fff}.footer .footer-bottom{color:#fff;font-size:14px;font-weight:400;line-height:normal;padding:50px 11px;background-color:#3d0e71}.footer .footer-bottom .social{display:flex;align-items:center;gap:30px}.footer .footer-bottom .social i,.footer .footer-bottom .social svg{font-size:18px;color:#fff}

diff --git a/components/auth/FormSignUp.jsx b/components/auth/FormSignUp.jsx
@@ -6,20 +6,38 @@ import {
   handleAddAuth,
   handleFetchUsers,
 } from "@/redux/actions/auth/authAction";
-
+import { createUserWithEmailAndPassword } from "firebase/auth";
+import { auth } from "@/lib/firebase";
+import { useRouter } from "next/navigation";
 export const FormSign = () => {
+  const [error, setError] = useState();
+  const [success, setSuccess] = useState();
+  const router = useRouter();
   const [showPassword, setShowPassword] = useState(false);
   const fd = useRef();
 
   const togglePassword = () => {
     setShowPassword(!showPassword);
   };
-  function handleAuth(e) {
+  async function handleAuth(e) {
     e.preventDefault();
     const formData = new FormData(fd.current);
     const data = Object.fromEntries(formData.entries());
-    handleAddAuth(data);
-     handleFetchUsers()
+    try {
+      const userCredential = await createUserWithEmailAndPassword(
+        auth,
+        data.email,
+        data.password
+      );
+      setSuccess("User created successfully!");
+      console.log("User:", userCredential.user);
+
+      router.push("/");
+    } catch (err) {
+      setError(err.message);
+    }
+    // handleAddAuth(data);
+    //  handleFetchUsers()
   }
   return (
     <form
@@ -30,8 +48,10 @@ export const FormSign = () => {
       onSubmit={handleAuth}
     >
       <div className="text-center mb-5">
+        {error && <p style={{ color: "red" }}>{error}</p>}
+        {success && <p style={{ color: "green" }}>{success}</p>}
         <Image
-          src="/taka.svg"
+          src="/logo.svg"
           alt="كوكبة التقنية"
           className="img-fluid mb-4"
           style={{ maxWidth: "150px" }}

diff --git a/lib/firebase.js b/lib/firebase.js
@@ -1,21 +1,23 @@
 // Import the functions you need from the SDKs you need
 import { initializeApp } from "firebase/app";
+import { getAuth } from "firebase/auth";
+
 // TODO: Add SDKs for Firebase products that you want to use
 // https://firebase.google.com/docs/web/setup#available-libraries
 
 // Your web app's Firebase configuration
 const firebaseConfig = {
-  apiKey: "AIzaSyCEGfEiOqqFJSBCg89NG1kXHC07g6gqGoE",
-  authDomain: "next-e-commerce-32dcb.firebaseapp.com",
-  projectId: "next-e-commerce-32dcb",
-  storageBucket: "next-e-commerce-32dcb.firebasestorage.app",
-  messagingSenderId: "353628531427",
-  appId: "1:353628531427:web:f6994945ea74296312f3d6",
+  apiKey: "AIzaSyBcrOxnLBMIFnHQ4wYnR9eYjUn84ngQpek",
+  authDomain: "e-commerce2-6dc53.firebaseapp.com",
+  projectId: "e-commerce2-6dc53",
+  storageBucket: "e-commerce2-6dc53.firebasestorage.app",
+  messagingSenderId: "4774195667",
+  appId: "1:4774195667:web:5a7b1953c38de95d73ff26"
 };
 
 // Initialize Firebase
 const app = initializeApp(firebaseConfig);
-
+export const auth = getAuth(app);
 const db = getFirestore(app);
-const storage = getStorage(app);
-export { db, storage };
+// const storage = getStorage(app);
+// export { db, storage };

diff --git a/app/css/sass/pages/_globalPage.scss b/app/css/sass/pages/_globalPage.scss
@@ -101,7 +101,7 @@ body {
   display: flex;
   flex-direction: column;
   justify-content: space-between;
-  padding: 3rem;
+  padding: 30px !important;
 }
 
 .login-bg::before {
@@ -111,7 +111,7 @@ body {
   top: 0;
   width: 100%;
   height: 100%;
-  background: url("/food.jpg");
+  background: url("/slider.png");
   background-size: cover;
   background-position: center;
   background-repeat: no-repeat;
@@ -128,8 +128,8 @@ body {
   height: 100%;
   background: linear-gradient(
     135deg,
-    rgba(253, 141, 13, 0.3),
-    rgba(215, 215, 11, 0.3)
+    rgba(253, 13, 249, 0.071),
+    rgba(55, 11, 215, 0.032)
   );
   z-index: 2;
 }

diff --git a/app/(auth)/login/page.jsx b/app/(auth)/login/page.jsx
@@ -19,7 +19,7 @@ export default function Login() {
 
             <div>
               <Image
-                src="/taka.svg" // قم بتغيير المسار حسب الحاجة
+                src="/logo.svg" // قم بتغيير المسار حسب الحاجة
                 alt="طلبات"
                 className="img-fluid mb-4"
                 style={{ maxWidth: "150px" }}

diff --git a/app/(auth)/signup/page.jsx b/app/(auth)/signup/page.jsx
@@ -20,7 +20,7 @@ export default function Sign() {
 
             <div>
               <Image
-                src="/taka.svg" // قم بتغيير المسار حسب الحاجة
+                src="/logo.svg" // قم بتغيير المسار حسب الحاجة
                 alt="طلبات"
                 className="img-fluid mb-4"
                 style={{ maxWidth: "150px" }}

diff --git a/components/auth/FormLogin.jsx b/components/auth/FormLogin.jsx
@@ -17,7 +17,7 @@ export const FormLogin = () => {
     >
       <div className="text-center mb-5">
         <Image
-          src="/taka.svg" 
+          src="/logo.svg" 
           alt="كوكبة التقنية"
           className="img-fluid mb-4"
           style={{ maxWidth: "150px" }}
